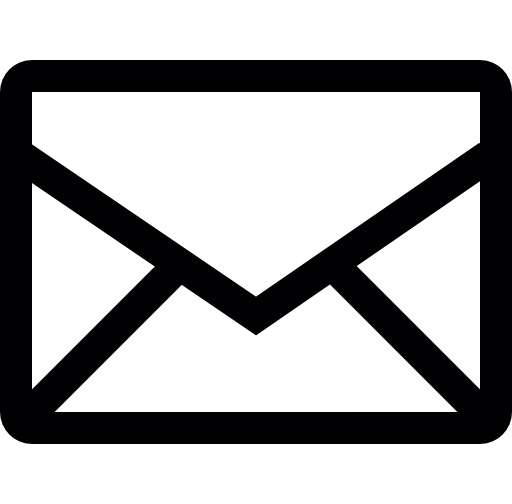
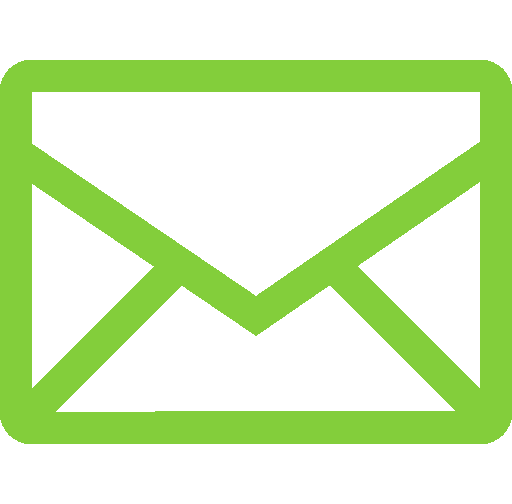
- Added green email outline provided by Citrus - Added menu links to footer social media links

diff --git a/seasoninfo.html b/seasoninfo.html
@@ -1,4 +1,4 @@
-<!DOCTYPE html>
+<!DOCTYPE html>
 <html lang="en-US">
   <head>
     <meta charset="UTF-8">
@@ -112,7 +112,9 @@
               <div class="line padding">
                   <div class="s-12 m-12 l-5 margin-bottom-0">
                       <div class="float-left">
-                          <img src="img/discordoutline.png" width="50" height="50">
+                          <a href="https://discord.gg/jvYQfaH" target="_blank">
+                              <img src="img/discordoutline.png" width="50" height="50">
+                          </a>
                       </div>
                       <div class="margin-left-70 margin-bottom-10">
                           <h3 class="margin-bottom-0">Discord</h3>
@@ -121,7 +123,9 @@
                   </div>
                   <div class="s-12 m-12 l-4 margin-bottom-0">
                       <div class="float-left">
-                          <img src="img/twitter.png" width="50" height="50">
+                          <a href="https://twitter.com/globalclashcup?lang=en" target="_blank">
+                              <img src="img/twitter.png" width="50" height="50">
+                          </a>
                       </div>
                       <div class="margin-left-70 margin-bottom-10">
                           <h3 class="margin-bottom-0">Twitter</h3>
@@ -130,7 +134,9 @@
                   </div>
                   <div class="s-12 m-12 l-3 margin-bottom-0">
                       <div class="float-left">
-                          <img src="img/emailoutline.png" width="50" height="50">
+                          <a href="mailto:support@globalclashcup.com" target="_blank">
+                              <img src="img/emailoutline.png" width="50" height="50">
+                          </a>
                       </div>
                       <div class="margin-left-70 margin-bottom-10">
                           <h3 class="margin-bottom-0">Email</h3>

diff --git a/divisions.html b/divisions.html
@@ -170,7 +170,9 @@
               <div class="line padding">
                   <div class="s-12 m-12 l-5 margin-bottom-0">
                       <div class="float-left">
-                          <img src="img/discordoutline.png" width="50" height="50">
+                          <a href="https://discord.gg/jvYQfaH" target="_blank">
+                              <img src="img/discordoutline.png" width="50" height="50">
+                          </a>
                       </div>
                       <div class="margin-left-70 margin-bottom-10">
                           <h3 class="margin-bottom-0">Discord</h3>
@@ -179,7 +181,9 @@
                   </div>
                   <div class="s-12 m-12 l-4 margin-bottom-0">
                       <div class="float-left">
-                          <img src="img/twitter.png" width="50" height="50">
+                          <a href="https://twitter.com/globalclashcup?lang=en" target="_blank">
+                              <img src="img/twitter.png" width="50" height="50">
+                          </a>
                       </div>
                       <div class="margin-left-70 margin-bottom-10">
                           <h3 class="margin-bottom-0">Twitter</h3>
@@ -188,7 +192,9 @@
                   </div>
                   <div class="s-12 m-12 l-3 margin-bottom-0">
                       <div class="float-left">
-                          <img src="img/emailoutline.png" width="50" height="50">
+                          <a href="mailto:support@globalclashcup.com" target="_blank">
+                              <img src="img/emailoutline.png" width="50" height="50">
+                          </a>
                       </div>
                       <div class="margin-left-70 margin-bottom-10">
                           <h3 class="margin-bottom-0">Email</h3>

diff --git a/halloffame.html b/halloffame.html
@@ -114,7 +114,9 @@
               <div class="line padding">
                   <div class="s-12 m-12 l-5 margin-bottom-0">
                       <div class="float-left">
-                          <img src="img/discordoutline.png" width="50" height="50">
+                          <a href="https://discord.gg/jvYQfaH" target="_blank">
+                              <img src="img/discordoutline.png" width="50" height="50">
+                          </a>
                       </div>
                       <div class="margin-left-70 margin-bottom-10">
                           <h3 class="margin-bottom-0">Discord</h3>
@@ -123,7 +125,9 @@
                   </div>
                   <div class="s-12 m-12 l-4 margin-bottom-0">
                       <div class="float-left">
-                          <img src="img/twitter.png" width="50" height="50">
+                          <a href="https://twitter.com/globalclashcup?lang=en" target="_blank">
+                              <img src="img/twitter.png" width="50" height="50">
+                          </a>
                       </div>
                       <div class="margin-left-70 margin-bottom-10">
                           <h3 class="margin-bottom-0">Twitter</h3>
@@ -132,7 +136,9 @@
                   </div>
                   <div class="s-12 m-12 l-3 margin-bottom-0">
                       <div class="float-left">
-                          <img src="img/emailoutline.png" width="50" height="50">
+                          <a href="mailto:support@globalclashcup.com" target="_blank">
+                              <img src="img/emailoutline.png" width="50" height="50">
+                          </a>
                       </div>
                       <div class="margin-left-70 margin-bottom-10">
                           <h3 class="margin-bottom-0">Email</h3>

diff --git a/organisation.html b/organisation.html
@@ -102,7 +102,9 @@
               <div class="line padding">
                   <div class="s-12 m-12 l-5 margin-bottom-0">
                       <div class="float-left">
-                          <img src="img/discordoutline.png" width="50" height="50">
+                          <a href="https://discord.gg/jvYQfaH" target="_blank">
+                              <img src="img/discordoutline.png" width="50" height="50">
+                          </a>
                       </div>
                       <div class="margin-left-70 margin-bottom-10">
                           <h3 class="margin-bottom-0">Discord</h3>
@@ -111,7 +113,9 @@
                   </div>
                   <div class="s-12 m-12 l-4 margin-bottom-0">
                       <div class="float-left">
-                          <img src="img/twitter.png" width="50" height="50">
+                          <a href="https://twitter.com/globalclashcup?lang=en" target="_blank">
+                              <img src="img/twitter.png" width="50" height="50">
+                          </a>
                       </div>
                       <div class="margin-left-70 margin-bottom-10">
                           <h3 class="margin-bottom-0">Twitter</h3>
@@ -120,7 +124,9 @@
                   </div>
                   <div class="s-12 m-12 l-3 margin-bottom-0">
                       <div class="float-left">
-                          <img src="img/emailoutline.png" width="50" height="50">
+                          <a href="mailto:support@globalclashcup.com" target="_blank">
+                              <img src="img/emailoutline.png" width="50" height="50">
+                          </a>
                       </div>
                       <div class="margin-left-70 margin-bottom-10">
                           <h3 class="margin-bottom-0">Email</h3>

diff --git a/index2.html b/index2.html
@@ -181,7 +181,9 @@
               <div class="line padding">
                   <div class="s-12 m-12 l-5 margin-bottom-0">
                       <div class="float-left">
-                          <img src="img/discordoutline.png" width="50" height="50">
+                          <a href="https://discord.gg/jvYQfaH" target="_blank">
+                            <img src="img/discordoutline.png" width="50" height="50">
+                          </a>
                       </div>
                       <div class="margin-left-70 margin-bottom-10">
                           <h3 class="margin-bottom-0">Discord</h3>
@@ -190,7 +192,9 @@
                   </div>
                   <div class="s-12 m-12 l-4 margin-bottom-0">
                       <div class="float-left">
-                          <img src="img/twitter.png" width="50" height="50">
+                          <a href="https://twitter.com/globalclashcup?lang=en" target="_blank">
+                            <img src="img/twitter.png" width="50" height="50">
+                          </a>
                       </div>
                       <div class="margin-left-70 margin-bottom-10">
                           <h3 class="margin-bottom-0">Twitter</h3>
@@ -199,7 +203,9 @@
                   </div>
                   <div class="s-12 m-12 l-3 margin-bottom-0">
                       <div class="float-left">
-                          <img src="img/emailoutline.png" width="50" height="50">
+                          <a href="mailto:support@globalclashcup.com" target="_blank">
+                            <img src="img/emailoutline.png" width="50" height="50">
+                          </a>
                       </div>
                       <div class="margin-left-70 margin-bottom-10">
                           <h3 class="margin-bottom-0">Email</h3>
